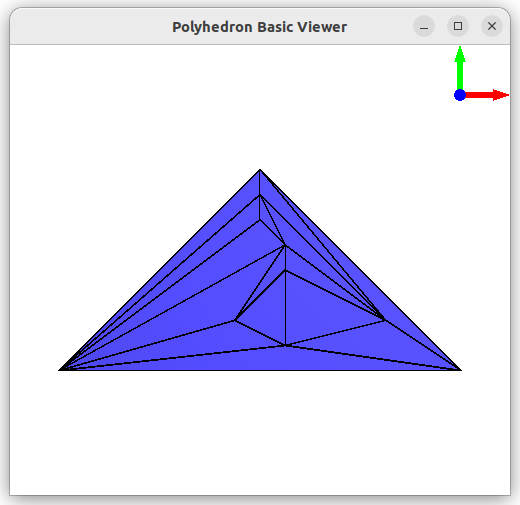
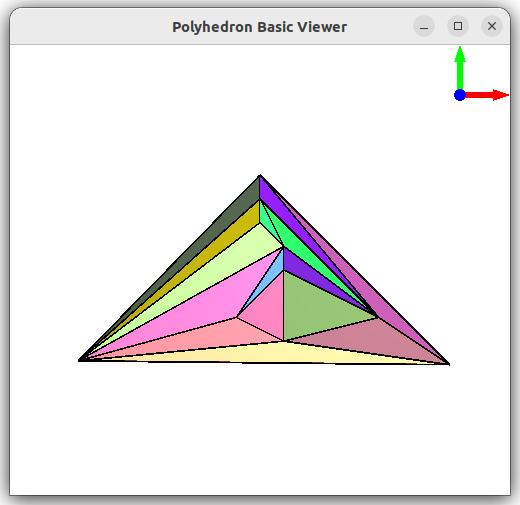
Update both README.md files with new draw_planar screenshot

Changed region(s): [[0.1231, 0.3267, 0.8923, 0.7426], [0.0, 0.0, 1.0, 1.0]]

diff --git a/boost/straight_line_drawing.cpp b/boost/straight_line_drawing.cpp
@@ -3,7 +3,7 @@
 // accompanying file LICENSE_1_0.txt or copy at
 // http://www.boost.org/LICENSE_1_0.txt)
 /*
-f=straight_line_graphviz
+f=straight_line_drawing
 g++ -O3 -Wall -pedantic -Wextra $f.cpp -o $f
 cpplint --filter=-legal/copyright,-build/namespaces,-runtime/reference $f.cpp
 cppcheck --enable=all --suppress=missingIncludeSystem $f.cpp --check-config

diff --git a/boost/README.md b/boost/README.md
@@ -3,20 +3,20 @@ Create a ranodm maximal planar (combinatorial) embedding, based on [chapter 8 al
 https://github.com/Hermann-SW/randomgraph
 
 This will host pure Boost graph implementation, which allows to directly continue with call to ```chrobak_payne_straight_line_drawing()``` to get the straight line drawing, without the other calls to BGL functions before. Not even the need to call last of those functions from demo code ```planar_canonical_ordering()```, because that ordering will be already be created:  
-https://gist.github.com/Hermann-SW/99d151a273d290ee0d843c79b2da26a8#file-straight_line_graphviz-cpp-L135
+https://gist.github.com/Hermann-SW/99d151a273d290ee0d843c79b2da26a8#file-straight_line_graphviz-cpp-L133
 
 Using 
 - discussed above ```randomgraph```to create maximal planar random graph
-- CGAL lib [draw_polyhedron.cpp](https://github.com/CGAL/cgal/blob/master/Polyhedron/examples/Polyhedron/draw_polyhedron.cpp) example to display created planar straight line drawing 10.off  
+- CGAL lib [draw_polyhedron.cpp](https://github.com/CGAL/cgal/blob/master/Polyhedron/examples/Polyhedron/draw_polyhedron.cpp) example based [cgal/draw_planar.cpp](cgal/draw_planar.cpp) to display created planar straight line drawing 10.off (see [cgal/](cgal/) on how o build for Qt5 or Qt6)  
 (.off file has all z-coordinates 0 allowing to use ```draw_polyhedron``` as planar graph viewer)
 - [straight_line_drawing.cpp](straight_line_drawing.cpp)
 ```
 $ NOSTAT= randomgraph 10 -o 10.u
-$ g++ -g -Wall -pedantic -Wextra $f.cpp -o $f
+$ f=straight_line_drawing
+$ g++ -O3 -Wall -pedantic -Wextra $f.cpp -o $f
 $ ./straight_line_drawing 10.u > 10.off 2>err
-$ draw_polyhedron 10.off 
+$ cgal/draw_planar 10.off 
 Using OpenGL context 4.6 GL
-$ 
 ```
 
 ![../res/demo.10.off.png](../res/demo.10.off.png)

diff --git a/boost/cgal/README.md b/boost/cgal/README.md
@@ -4,6 +4,17 @@
 
 <kbd>draw\_planar</kbd> gets build for Qt6 by executiong <kbd>build6</kbd>.
 
+[draw_planar.cpp](draw_planar.cpp) does assert all points z-coordinates to be 0.  
+Before displaying it sets z-coordinate of first point to -1.  
+Only that way the colored faces of planar embedding can be shown.  
+build5 and build6 patch copies of CGAL files to start with colors and inverse_normal true.  
+```
+$ ./draw_planar ../10.off 
+Using OpenGL context 4.6 GL
+```
+
+![../../res/demo.10.off.png](../../res/demo.10.off.png)
+
 ## cleanup
 
 For Qt5 by executiong <kbd>really_clean5</kbd>.
